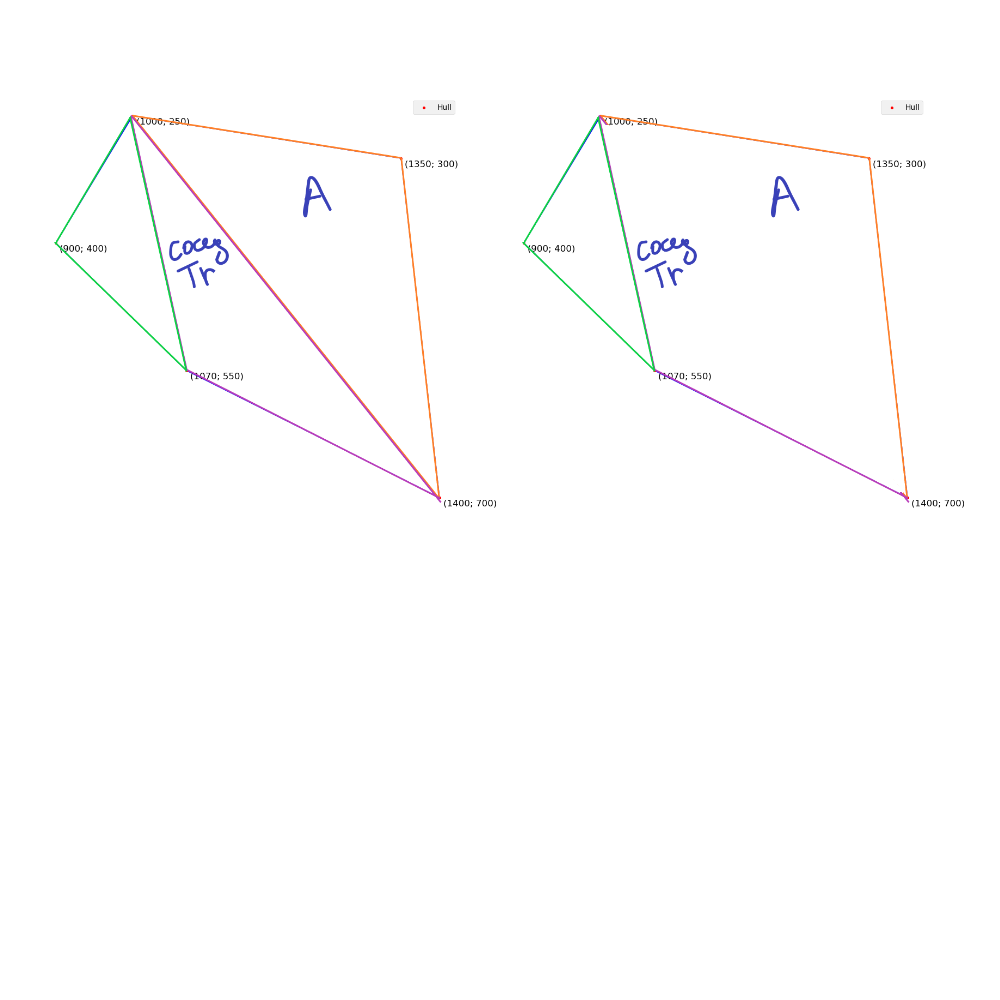
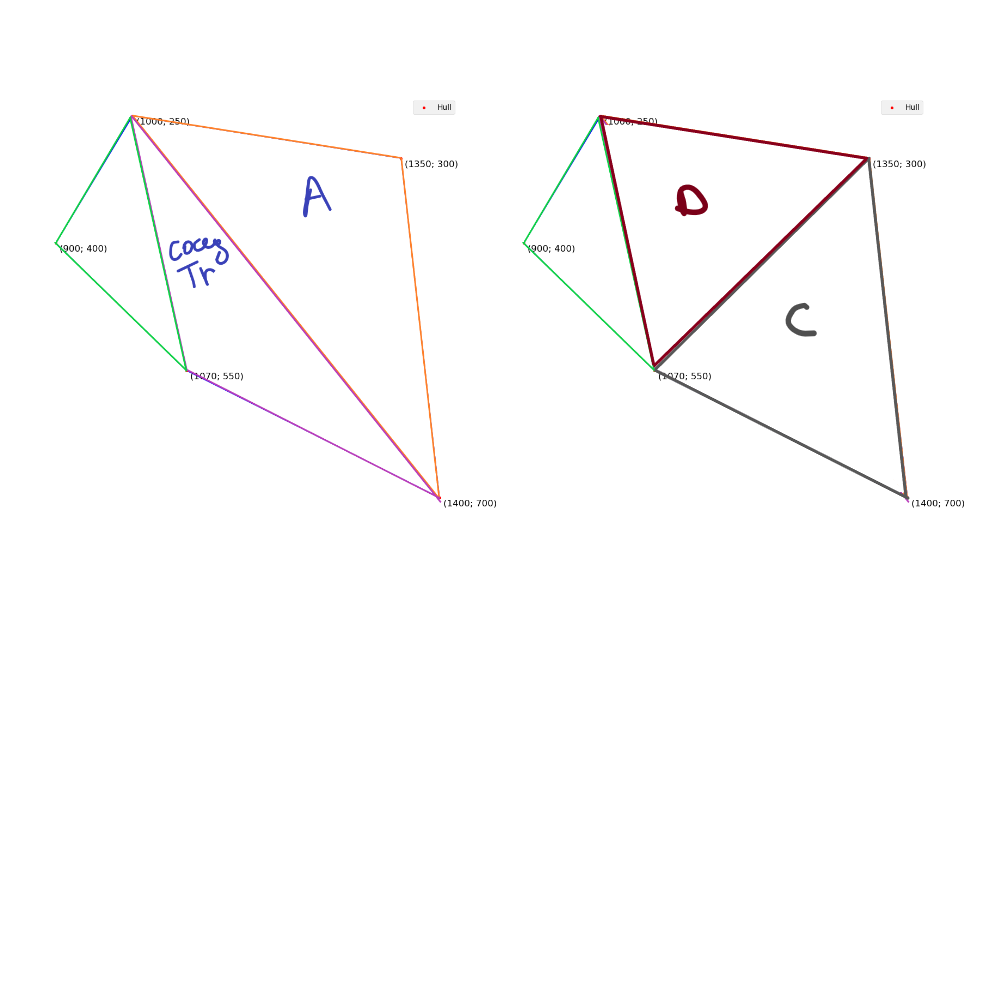
Все еще дебажим

diff --git a/RadianceStandard/Primitives/Triangulation.cs b/RadianceStandard/Primitives/Triangulation.cs
@@ -70,8 +70,10 @@ namespace RadianceStandard.Primitives
             }
             // До этого момента все ОК.
 #warning Try Flip foreach here.
-            foreach (var triangle in triangles)
-                DelaunayFrom(triangle);
+            this.triangles.AddRange(triangles);
+            foreach (var triangle in this.triangles.ToList()) // тут меняем лист по которому идем.
+                if (this.triangles.Contains(triangle))
+                    DelaunayFrom(triangle);
         }
 
         private void FillInnerPoints(IHardenedPolymer points)
@@ -155,18 +157,23 @@ namespace RadianceStandard.Primitives
             var C = new Triangle(c);
             var D = new Triangle(d);
 
+            // До сюда все ОК.
+            // Убрать старые
             triangles.Add(C);
             triangles.Add(D);
 
+            // Добавить новые
             triangles.Remove(A);
             triangles.Remove(B);
 
+            // Добавить новым соседей
             var allNeighbours = A.Neighbours.Union(B.Neighbours).Except(new[] { A, B }).ToList();
             List<Triangle> findNeighbours(Func<Vector, bool> func)
                 => allNeighbours.Where(n => n.Polymer.Any(func)).ToList();
             C.Neighbours = findNeighbours(p => p == m1);
             D.Neighbours = findNeighbours(p => p == m0);
 
+            // Обработать соседей
             void handleNeighbours(Triangle @base, Triangle toAdd)
             {
                 @base.Neighbours.Remove(A);
@@ -176,6 +183,10 @@ namespace RadianceStandard.Primitives
 
             C.Neighbours.ForEach(x => handleNeighbours(x, C));
             D.Neighbours.ForEach(x => handleNeighbours(x, D));
+
+            // Добавить C к D и D к C
+            C.Neighbours.Add(D);
+            D.Neighbours.Add(C);
 
             return (C, D);
         }
@@ -220,13 +231,13 @@ namespace RadianceStandard.Primitives
         }
 
         // Вроде как для такого названия один параметр логичен.
-        private void DelaunayFrom(Triangle A)
+        private void DelaunayFrom(Triangle triangle)//, bool flag = true)
         {
             // Перебираем всех соседей
-            foreach (Triangle triangle in A.Neighbours)
+            foreach (Triangle neighbour in triangle.Neighbours)
             {
                 // Если флипнулось, то запускаем рекурсию для новых треугольников
-                if (FlipIfPossible(A, triangle, out (Triangle C, Triangle D) res))
+                if (FlipIfPossible(triangle, neighbour, out (Triangle C, Triangle D) res))
                 {
                     DelaunayFrom(res.C);
                     DelaunayFrom(res.D);
@@ -237,10 +248,13 @@ namespace RadianceStandard.Primitives
                 // А, а если нет, то пойдет по всем
                 // и у меня есть предположение что выполняться это все будет вечность).ЫЫЫЫЫЫЫЫЫЫЫЫЫЫЫЫ
 
-#warning Она точно прервется когда все ок? Что значит все ок?
+#warning Она точно прервется когда все ок? Что значит все ок? Тут зациклилось.
                 else
                 {
-                    DelaunayFrom(triangle);
+                    //if (flag)
+                    //{
+                    DelaunayFrom(neighbour); //, flag = false);
+                    //}
                 }
             }
         }

diff --git a/TestsCore/TestingField.cs b/TestsCore/TestingField.cs
@@ -1,0 +1,22 @@
+using NUnit.Framework;
+using System.Collections.Generic;
+using System.Linq;
+
+namespace TestsCore
+{
+    [TestFixture]
+    public class TestingField
+    {
+        [TestCase]
+        public void Test()
+        {
+            var list = new List<int> { 1, 2, 3, 4, 5 };
+            foreach (var item in list.ToList())
+            {
+                list.Remove(item);
+            }
+
+            Assert.AreEqual(new List<int>(), list);
+        }
+    }
+}
